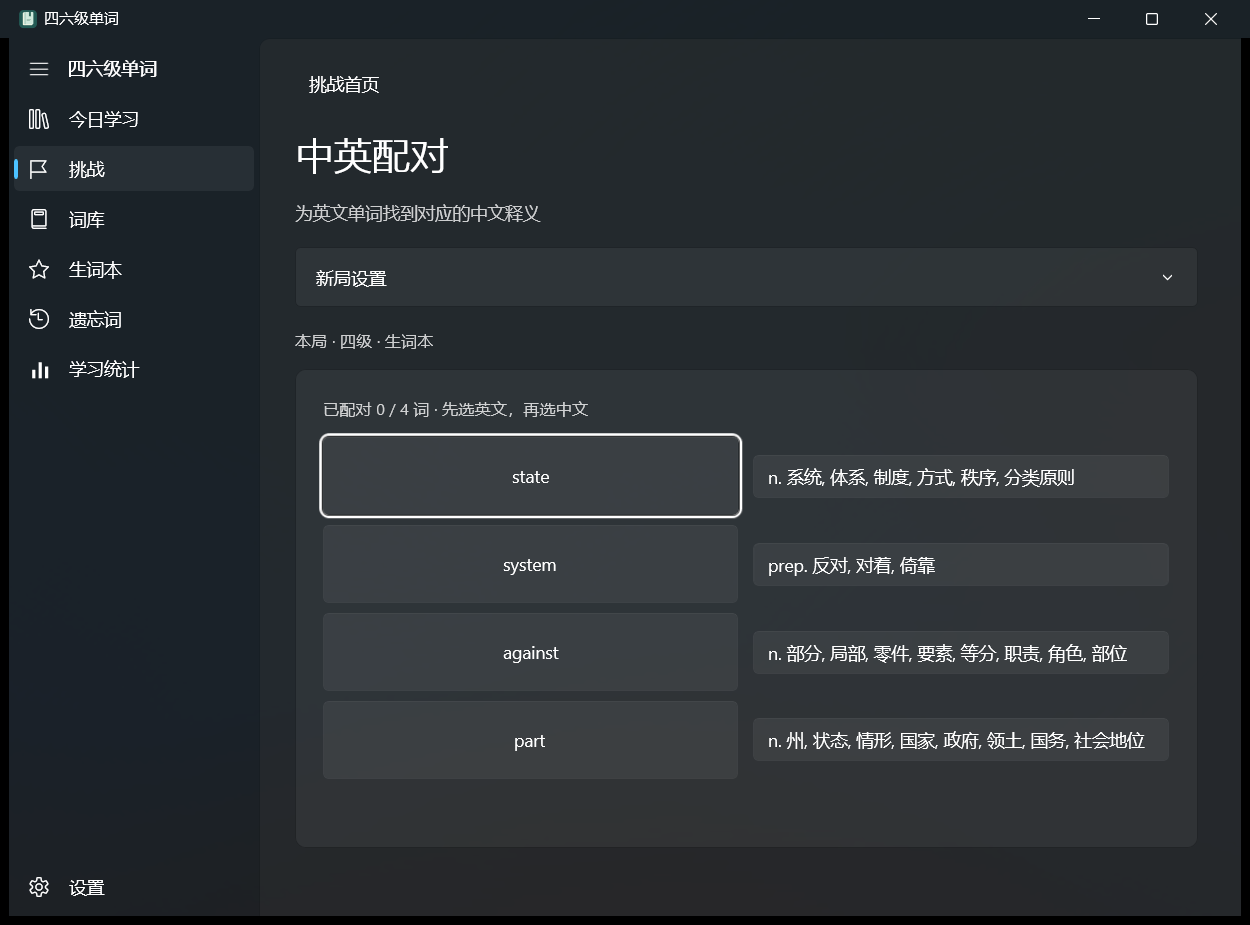
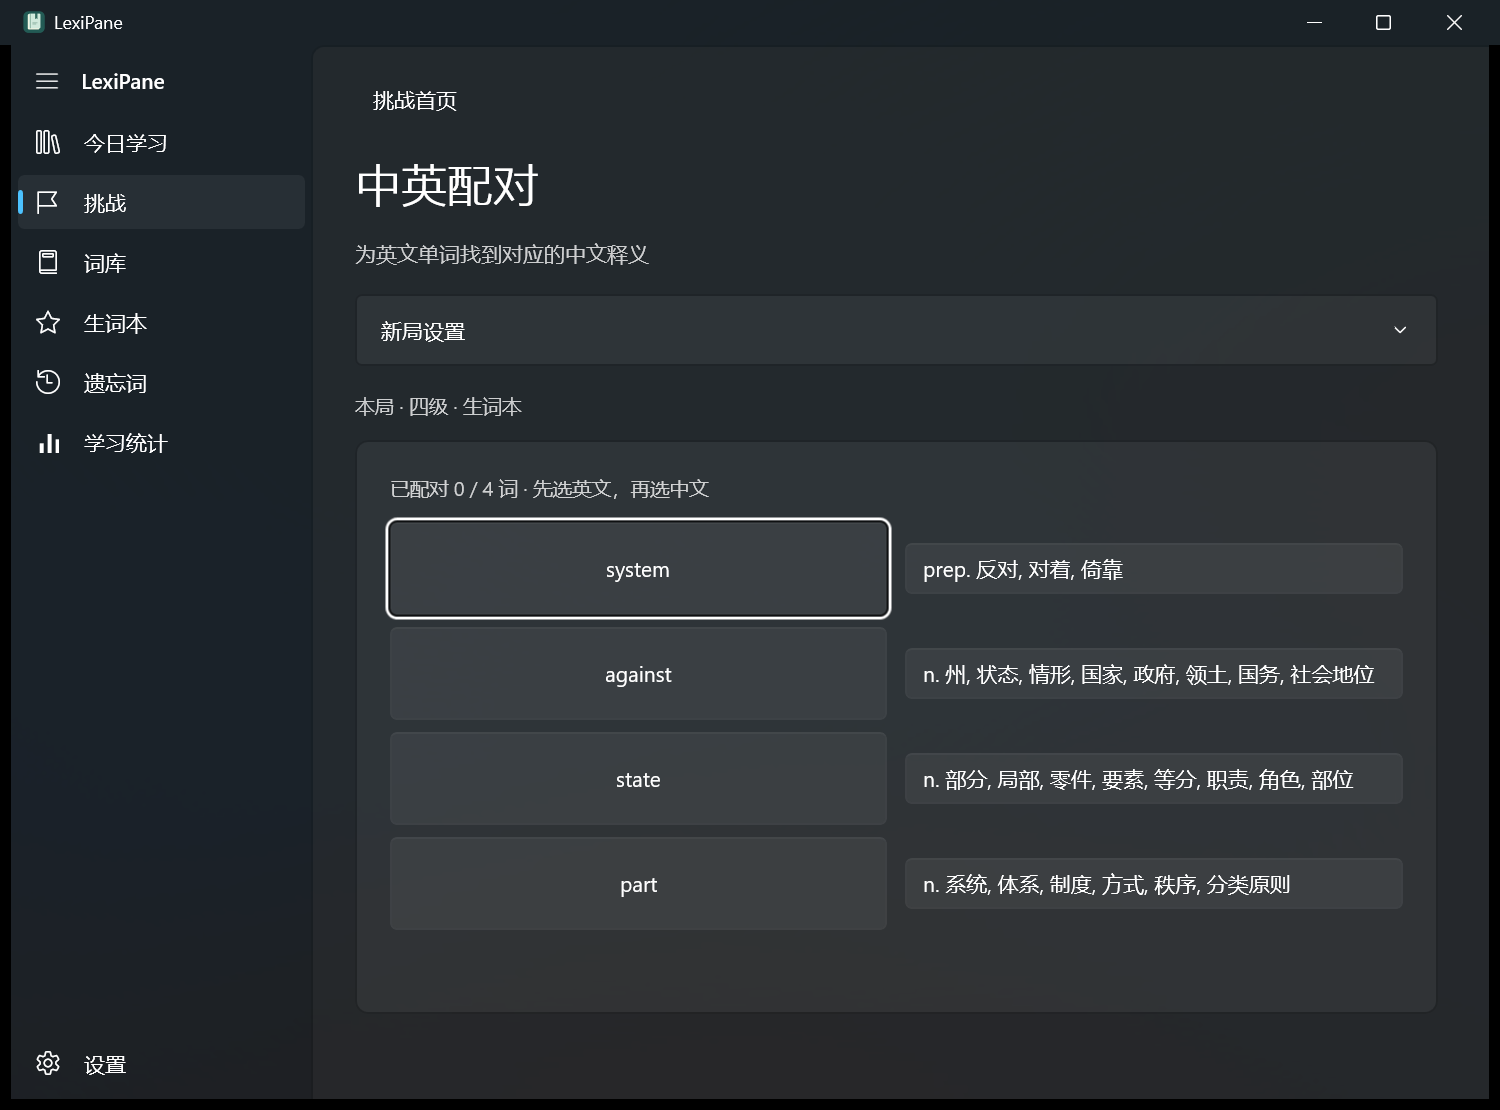
Release LexiPane 2.3.0

diff --git a/src/Vocabulary/MainWindow.xaml b/src/Vocabulary/MainWindow.xaml
@@ -1,5 +1,5 @@
-<Window x:Class="Vocabulary.MainWindow" xmlns="http://schemas.microsoft.com/winfx/2006/xaml/presentation" xmlns:x="http://schemas.microsoft.com/winfx/2006/xaml" Title="四六级单词">
-<NavigationView x:Name="Nav" PaneTitle="四六级单词" IsBackButtonVisible="Collapsed" IsSettingsVisible="False" OpenPaneLength="200" ExpandedModeThresholdWidth="820" CompactModeThresholdWidth="600" IsPaneOpen="True">
+<Window x:Class="Vocabulary.MainWindow" xmlns="http://schemas.microsoft.com/winfx/2006/xaml/presentation" xmlns:x="http://schemas.microsoft.com/winfx/2006/xaml" Title="LexiPane">
+<NavigationView x:Name="Nav" PaneTitle="LexiPane" IsBackButtonVisible="Collapsed" IsSettingsVisible="False" OpenPaneLength="200" ExpandedModeThresholdWidth="820" CompactModeThresholdWidth="600" IsPaneOpen="True">
  <NavigationView.MenuItems>
   <NavigationViewItem Content="今日学习" Tag="today"><NavigationViewItem.Icon><FontIcon Glyph="&#xE8F1;"/></NavigationViewItem.Icon></NavigationViewItem>
   <NavigationViewItem Content="挑战" Tag="challenges"><NavigationViewItem.Icon><FontIcon Glyph="&#xE7C1;"/></NavigationViewItem.Icon></NavigationViewItem>

diff --git a/src/Vocabulary/MainWindow.xaml.cs b/src/Vocabulary/MainWindow.xaml.cs
@@ -349,5 +349,10 @@ public sealed partial class MainWindow : Window
         var cet6 = app.Store.Summary(p with { Book = Book.Cet6 }, DateTimeOffset.Now);
         info.Children.Add(UI.Secondary($"ECDICT　·　四级 {cet4.Total:N0} 词　·　六级含四级基础 {cet6.Total:N0} 词"));
         Body.Children.Add(UI.Panel(info));
+        var about = UI.Column(5);
+        about.Children.Add(UI.Text("关于 LexiPane", 16, true));
+        var version = typeof(App).Assembly.GetName().Version!;
+        about.Children.Add(UI.Secondary($"{version.ToString(3)} · Windows 原生离线词汇学习"));
+        Body.Children.Add(UI.Panel(about));
     }
 }

diff --git a/tools/check_offline.py b/tools/check_offline.py
@@ -6,9 +6,9 @@ import argparse, os, subprocess, sqlite3, uuid, zipfile
 
 root=Path.cwd()
 parser=argparse.ArgumentParser()
-parser.add_argument('--release',default='artifacts/Vocabulary-2.2.0-win-x64.zip')
+parser.add_argument('--release',default='artifacts/LexiPane-v2.3.0-windows-x64-portable.zip')
 args=parser.parse_args()
-binary=(root/('.cache/offline-'+uuid.uuid4().hex)/'Vocabulary.exe').resolve()
+binary=(root/('.cache/offline-'+uuid.uuid4().hex)/'LexiPane.exe').resolve()
 assert binary.is_relative_to(root/".cache")
 with zipfile.ZipFile(root/args.release) as release:
     release.extractall(binary.parent)

diff --git a/src/Vocabulary/WidgetWindow.cs b/src/Vocabulary/WidgetWindow.cs
@@ -22,7 +22,7 @@ internal sealed class WidgetWindow : Window
     public WidgetWindow(App app)
     {
         this.app = app;
-        Title = "四六级单词 · 桌面卡片";
+        Title = "LexiPane · 桌面卡片";
         glass.Density = app.GlassDensity;
         DispatcherQueue.EnsureSystemDispatcherQueue();
         AppWindow.SetIcon(App.IconPath);

diff --git a/src/Vocabulary/NativeDesktop.cs b/src/Vocabulary/NativeDesktop.cs
@@ -150,7 +150,7 @@ internal sealed class Tray : IDisposable
             Flags = 7,
             Callback = Callback,
             Icon = Native.LoadImage(0, App.IconPath, 1, 32, 32, 0x10),
-            Tip = "四六级单词",
+            Tip = "LexiPane",
             Info = "",
             InfoTitle = ""
         };

diff --git a/src/Vocabulary/App.xaml.cs b/src/Vocabulary/App.xaml.cs
@@ -61,7 +61,7 @@ public partial class App : Application
         }
         catch (Exception e)
         {
-            Native.MessageBox(0, e.Message, "四六级单词 · 无法启动", 0x10);
+            Native.MessageBox(0, e.Message, "LexiPane · 无法启动", 0x10);
             Exit();
         }
     }

diff --git a/README.md b/README.md
@@ -1,10 +1,10 @@
-# 四六级单词 2.2.0
+# LexiPane 2.3.0
 
-Windows 11 x64 原生离线背词应用。解压整个 `Vocabulary-2.2.0-win-x64.zip`，双击文件夹中的 **Vocabulary.exe**。词库、.NET 和 WinUI 运行时随程序提供。
+LexiPane 是一款 Windows 原生离线词汇学习应用，支持 Windows 11 x64 21H2（22000）及更新版本。解压整个 `LexiPane-v2.3.0-windows-x64-portable.zip`，双击文件夹中的 **LexiPane.exe**。词库、.NET 和 WinUI 运行时随程序提供。
 
 ## 下载
 
-[下载 Windows 11 x64 免安装版](https://github.com/FFZFC/vocabulary/releases/download/v2.2.0/Vocabulary-2.2.0-win-x64.zip) · [版本说明与源码包](https://github.com/FFZFC/vocabulary/releases/tag/v2.2.0)
+[下载 Windows 11 x64 免安装版](https://github.com/FFZFC/vocabulary/releases/download/v2.3.0/LexiPane-v2.3.0-windows-x64-portable.zip) · [版本说明与源码](https://github.com/FFZFC/vocabulary/releases/tag/v2.3.0)
 
 ## 功能
 
@@ -15,13 +15,15 @@ Windows 11 x64 原生离线背词应用。解压整个 `Vocabulary-2.2.0-win-x64
 
 ## 界面预览
 
+![今日学习](docs/images/overview.png)
+
 ![单词挑战](docs/images/challenge-hub.png)
 
 ![Wordle 猜词](docs/images/wordle.png)
 
 ![学习统计中的挑战成绩](docs/images/challenge-statistics.png)
 
-[查看默写界面](docs/images/dictation.png) · [查看配对界面](docs/images/matching.png) · [查看桌面卡片](docs/images/goal-widget.png) · [查看生词本](docs/images/notebook.png)
+[查看默写界面](docs/images/dictation.png) · [查看配对界面](docs/images/matching.png) · [查看桌面卡片](docs/images/goal-widget.png)
 
 ## 开始使用
 
@@ -72,7 +74,7 @@ Wordle 猜测词典包含 **19,649** 个词，4／5／6／7 字母分别为 2,75
 
 四级收录 **3,849** 词，六级收录 **5,805** 词（包含四级基础）。按 ECDICT 的 cet4、cet6 整词标签筛选，并按规范化拼写去重。数据固定在提交 `39cfb9672c0906b63569e0453c2e6abfb9ab182a`。收录量指本软件内置词书的实际词条数。词频优先取 frq，其次取 bnc，缺失词频排在末尾。来源、校验值和许可位于发布包的 `Data` 目录。[ECDICT 项目](https://github.com/skywind3000/ECDICT/tree/39cfb9672c0906b63569e0453c2e6abfb9ab182a)
 
-学习进度、笔记、收藏、挑战成绩、设置和卡片位置保存在 `%LocalAppData%\Vocabulary\study.db`。备份时从托盘退出，再复制该目录。更新时先从旧版托盘菜单退出，再将新版完整解压到另一个文件夹并运行。2.2 首次打开旧存档时会在同一目录自动生成 `study.db.*.bak` 并升级数据库。需要回到旧版时，请先退出程序并另存新版存档，再将升级前的备份复制为 `study.db`。
+学习进度、笔记、收藏、挑战成绩、设置和卡片位置保存在 `%LocalAppData%\Vocabulary\study.db`。备份时从托盘退出，再复制该目录。更新时先从旧版托盘菜单退出，再将新版完整解压到另一个文件夹并运行。LexiPane 沿用原有存档目录。早于 2.2 的存档会按现有迁移机制备份并升级。
 
 ## 从源码构建
 
@@ -80,10 +82,10 @@ Wordle 猜测词典包含 **19,649** 个词，4／5／6／7 字母分别为 2,75
 
 ```powershell
 dotnet run --project tests/Vocabulary.Checks -- src/Vocabulary/Data/lexicon.db
-powershell -ExecutionPolicy Bypass -File tools/publish.ps1 -OutputName Vocabulary-2.2.0-win-x64
+powershell -ExecutionPolicy Bypass -File tools/publish.ps1
 ```
 
-上述命令生成 `artifacts/Vocabulary-2.2.0-win-x64.zip`。使用 WinUI 3、Windows App SDK 2.6.5、.NET 10 及 Windows 内置 SQLite 引擎。学习逻辑和数据访问位于 Vocabulary.Core，WinUI 界面及桌面集成位于 Vocabulary。评分日志和词条进度在同一笔事务中提交，每张卡片有独立提交标识。复习间隔和难度系数依据 [SM-2](https://www.super-memory.com/english/ol/sm2.htm)。
+上述命令生成 `artifacts/LexiPane-v2.3.0-windows-x64-portable.zip`。使用 WinUI 3、Windows App SDK 2.6.5、.NET 10 及 Windows 内置 SQLite 引擎。学习逻辑和数据访问位于 Vocabulary.Core，WinUI 界面及桌面集成位于 Vocabulary。评分日志和词条进度在同一笔事务中提交，每张卡片有独立提交标识。复习间隔和难度系数依据 [SM-2](https://www.super-memory.com/english/ol/sm2.htm)。
 
 需要重新生成词库时运行 `python tools/build_lexicon.py`。脚本校验固定源文件的 SHA-256 后生成 SQLite 词库。图标原图生成脚本为 `tools/make_icon.py`，需要 Pillow。
 
@@ -92,17 +94,21 @@ powershell -ExecutionPolicy Bypass -File tools/publish.ps1 -OutputName Vocabular
 `tools/desktop_check.ps1` 通过 Windows UI Automation 和 Win32 操作实际发布包。它使用独立的模拟学习记录，验证统计图、遗忘词、撤销和背景透光，也覆盖首次启动、双语搜索、跨窗口评分、单实例、Win+D、拖动、托盘和重新启动。请在项目根目录启动 Windows PowerShell 运行：
 
 ```powershell
-powershell -ExecutionPolicy Bypass -File tools/desktop_check.ps1 -AppExe artifacts/Vocabulary-2.2.0-win-x64/Vocabulary.exe
+powershell -ExecutionPolicy Bypass -File tools/desktop_check.ps1 -AppExe artifacts/LexiPane-v2.3.0-windows-x64-portable/LexiPane.exe
 ```
 
-专项验收可在脚本参数中指定 `-AppExe artifacts/Vocabulary-2.2.0-win-x64/Vocabulary.exe`。加 `-GoalOnly` 可检查目标为 1 时持续切词、超额进度、同步撤销和重启。加 `-NotebookOnly` 可检查两窗收藏、编辑与搜索笔记、词条记录、生词本练习和重启后的保存结果。两个模式都使用独立空白存档。
+专项验收可在脚本参数中指定 `-AppExe artifacts/LexiPane-v2.3.0-windows-x64-portable/LexiPane.exe`。加 `-GoalOnly` 可检查目标为 1 时持续切词、超额进度、同步撤销和重启。加 `-NotebookOnly` 可检查两窗收藏、编辑与搜索笔记、词条记录、生词本练习和重启后的保存结果。两个模式都使用独立空白存档。
 
 `-SystemChecks` 会临时变更当前显示器缩放、明暗主题和高对比度，再重启 Explorer，适合在专门的交互测试时段运行。桌面验收需要 Python、Pillow 和 pywin32。测试期间自动记录并恢复显示设置。测试入口 `VOCABULARY_TEST_DATA` 用于隔离测试存档和应用实例。
 
-2.2.0 的 98 项核心检查覆盖持续学习、查阅、撤销、旧存档升级与备份、收藏与笔记，以及四种挑战、重复字母、词典、错词重练、成绩事务保存与失败重试。桌面专项验收使用独立存档，已实测四种玩法、键盘提交、页面切换保留输入、托盘恢复、四档 Wordle 词长、旧版存档升级和重启保存。明暗主题、高对比度以及 125%／150%／200% 缩放已通过检查并恢复原设置。断网测试副本已完成启动、查词、学习、Wordle 与成绩保存。界面预览来自实际发布程序。
+2.3.0 的 98 项核心检查已通过。从新目录解压的便携版已实测桌面卡片拖动、透明、Win+D、应用覆盖、托盘、Explorer 重启恢复、四种挑战、断网运行和重启后保存。明暗主题、高对比度及 125%／150%／200% 缩放已通过，测试后已恢复原设置。截图来自实际发布程序。
 
 运行 `python tools/check_offline.py` 可在无网络能力的临时 Windows AppContainer 中验证首次启动、查词和学习进度。该脚本从发布 ZIP 提取独立的测试副本，并在结束后清理临时身份。
 
-挑战专项验收使用独立的旧版测试存档，运行 `powershell -ExecutionPolicy Bypass -File tools/desktop_check.ps1 -AppExe artifacts/Vocabulary-2.2.0-win-x64/Vocabulary.exe -ChallengeOnly`。
+挑战专项验收使用独立的旧版测试存档，运行 `powershell -ExecutionPolicy Bypass -File tools/desktop_check.ps1 -AppExe artifacts/LexiPane-v2.3.0-windows-x64-portable/LexiPane.exe -ChallengeOnly`。
 
 挑战专项模式配合 `-SystemChecks` 时，会临时切换主题、高对比度和缩放，并自动恢复原设置。
+
+## 参与开发
+
+欢迎通过 [Issues](https://github.com/FFZFC/vocabulary/issues) 提交建议或问题，也欢迎 [Pull Requests](https://github.com/FFZFC/vocabulary/pulls)。本地构建后可运行上述核心检查。报告桌面卡片问题时，请注明 Windows 版本、显示器缩放和复现步骤。
